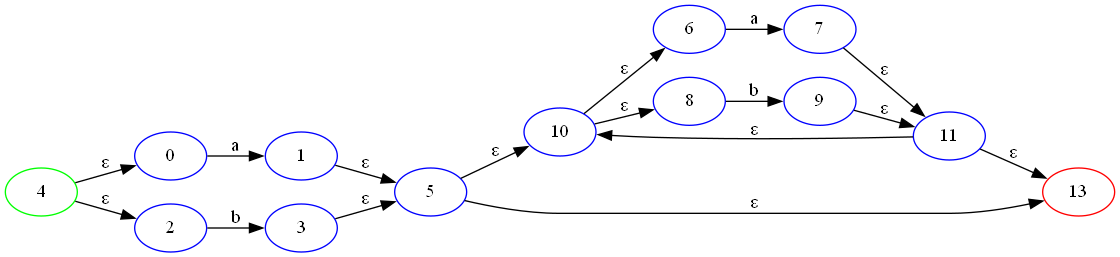
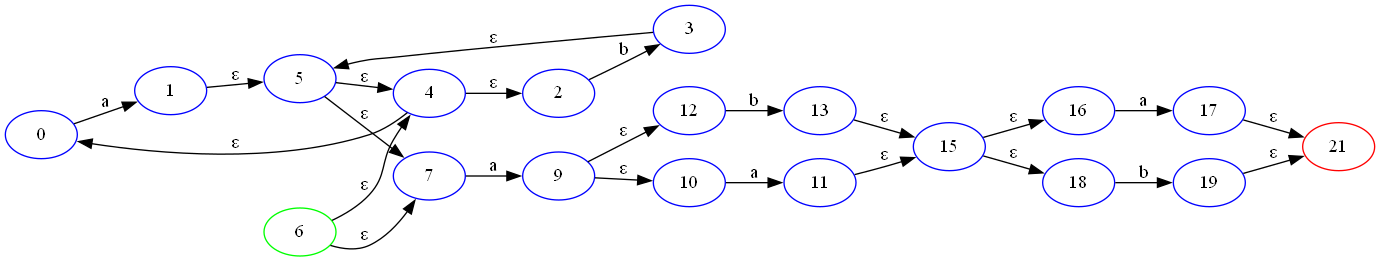
falta pulir un poco más la conversión

diff --git a/AFD_Converter.py b/AFD_Converter.py
@@ -1,6 +1,9 @@
 """
 Archivo que se encargará de convertir el autómata finito no determinista a un autómata finito determinista.
 """
+from EstadoAFD import *
+from TransicionesAFD import *
+import graphviz as gv
 
 class AFD:
 
@@ -9,14 +12,22 @@ class AFD:
         self.automata = automata
         self.transiciones = transiciones
         self.diccionario = diccionario
+        self.estado_num = 0
+        self.trans_AFD = []
+        self.estados_Finales = []
+        self.estados_FinalesE = []
+        self.estados_AFD = []
+        self.estadoInicial = []
+        self.dict = []
 
         self.conversion()
+        self.graficar()
 
     def conversion(self): # Método para convertir el AFD a AFD.
         # Imprimiendo los datos del autómata.
 
-        print(self.automata)
-        print(self.diccionario)
+        #print(self.automata)
+        #print(self.diccionario)
 
         estado_inicial = self.eclosure(self.automata.estado_inicial) # Calculand el estado inicial del autómata.
 
@@ -24,88 +35,123 @@ class AFD:
 
         estdos_AFD = [estado_inicial] # Creando la lista de estados_AFD y guardando su primer estado.
         
-        t_trans = {} # Creando la tabla de transición de los estados.
+        #trans_AFD = [] # Creando la tabla de transición de los estados.
 
         estados_a_revisar = [estado_inicial] # Creando la lista de estados a revisar.
 
-        # print(estados_a_revisar, "Estados a revisar")
-        # print(estdos_AFD, "Estados AFD")
+        #print("Estados a revisar: ", estados_a_revisar)
 
-        while len(estados_a_revisar) > 0: # Mientras la lista de estados a revisar no esté vacía.
-            estado_actual = estados_a_revisar.pop() # Sacando el último elemento de la lista de estados a revisar.
+        while len(estados_a_revisar) > 0:
+            estado_actual_AFD = estados_a_revisar.pop(0) # Sacando el último estado de la lista de estados a revisar.
 
-            #print("Estado actual: ", estado_actual)
+            #print("Estado actual AFD: ", estado_actual_AFD)
+            transiciones_act = {} # Transiciones actuales.
 
             for simbolo in self.alfabeto: # Recorriendo el alfabeto.
-                # Por cada símbolo, se calcula el conjunto de estados alcanzables desde el estado actual.
-                estado_alcanzable = self.eclosure(self.move(estado_actual, simbolo))
 
-                if estado_alcanzable: # Si el conjunto de estados alcanzables no está vacío.
-                    if estado_alcanzable not in estdos_AFD: # Si el conjunto de estados alcanzables no está en la lista de estados_AFD.
-                        estdos_AFD.append(estado_alcanzable) # Se agrega el conjunto de estados alcanzables a la lista de estados_AFD.
-                        estados_a_revisar.append(estado_alcanzable) # Se agrega el conjunto de estados alcanzables a la lista de estados a revisar.
+
+                # Lista para los estados alcanzables.
+                estados_alcanzables = []
+
+                # Recorriendo los estados del estado actual del AFD.
+                for estado in estado_actual_AFD:
+                        
+                        # Verificando si el estado tiene transiciones con el símbolo actual.
+                        if estado in self.diccionario:
+                            
+                            # Si tiene transiciones con el símbolo actual, se agregan a la lista de estados alcanzables.
+                            for transicion in self.diccionario[estado]:
+                                if transicion[0] == simbolo: # Imprimiendo las transiciones con el símbolo actual.
+                                    # Calculando el cierre epsilon de los estados alcanzables.
+                                    estadoo = self.eclosure(transicion[1])
+
+                                    #print("Estadoo: ", estadoo)
+
+                                    # Guardando los estados alcanzables.
+                                    estados_alcanzables.append(estadoo)
+
+                #print("Transiciones actuales: ", transiciones_act)
+                
+                if len(estados_alcanzables) > 0: 
+                    for estad in estados_alcanzables: # Recorriendo los estados alcanzables y guardándolos en los estados del AFD.
+                        if estad not in estdos_AFD:
+                            estdos_AFD.append(estad)
+                            estados_a_revisar.append(estad)
                     
-                    t_trans[(tuple(estado_actual), simbolo)] = tuple(estado_alcanzable) # Creando la tupla para la tabla de transición.
+                    # Guardando las transiciones actuales con el símbolo actual.
+                    transiciones_act[simbolo] = estad
 
-        # Almacenando los estados finales del AFD.
-        estados_finales = []
+            #print("Estado actual: ", estado_actual_AFD, "transiciones: ", transiciones_act)
 
-        # for estado in estdos_AFD: # Recorriendo la lista de estados_AFD.
-        #     for estado_final in self.automata.estado_final: # Recorriendo la lista de estados finales del AFD.
-        #         if estado_final in estado: # Si el estado final está en el conjunto de estados.
-        #             estados_finales.append(estado) # Se agrega el conjunto de estados a la lista de estados finales.
+            #print("Estados AFD: ", estdos_AFD)
 
-        #print("Estados AFD: ", estdos_AFD)
-        print("Transiciones: ", t_trans)
+            # Recorriendo las transiciones actuales.
+            for simboloo, estado_ll in transiciones_act.items():
+                #print("Estado actual: ", estado_actual_AFD, "Simbolo: ", simboloo, "Estado: ", estado_ll)
 
-        # # Detectando los estados finales en el diccionario de transiciones.
-        # for key, value in t_trans.items(): 
-        #     print(key, value)
+                # Creando la transición del AFD.
+                trans = TransicionesAFD(estado_actual_AFD, simboloo, estado_ll)
 
-        #     if self.automata.estado_final in key or self.automata.estado_final in value:
-        #         print("Estado final detectado")
+                self.trans_AFD.append(trans)
 
-        # # for transicion in self.transiciones: 
-        # #     print(str(transicion))
 
-        # # Creando un diccionario para guardar los conjuntos que se generan, a cual conjunto llega con cada símbolo del alfabeto.
-        # conjuntos = {}
-
-        # # Diccionario para guardar los movimientos con cada símbolo del alfabeto.
-        # movimientos = {}
         
-        # # Primer paso: Calcular cerradura epsilon del estado inicial.
-        # # Para esto, se necesita el estado inicial y el diccionario de transiciones.
-        # ecr = self.eclosure(self.automata.estado_inicial) # Resultado de la cerradura epsilon del estado inicial.
+        #print("Transiciones del AFD: ", trans_AFD)
 
-        # # Segundo paso: Calcular los movimientos con cada símbolo del alfabeto.
-        # # Para esto, se necesita el alfabeto, el estado que se regresa de la cerradura epsilon y el diccionario de transiciones.
-        # for simbolo in self.alfabeto: # Recorriendo el alfabeto.
-        #     #print("Símbolo: ", simbolo)
-        #     moves = self.move(ecr, simbolo) # Calculando el conjunto de estados alcanzables desde el conjunto de estados que se regresa de la cerradura epsilon.
-        #     #a = self.eclosure(moves)
-        #     #print("Conjunto: ", a)
+        # Creando un diccionario para guardar los estados con sus etiquetas.
+        diccionario_estados = {}
 
-        #     # Guardando los movimientos en el diccionario.
-        #     movimientos[simbolo] = moves
+        # Recorriendo los estados del AFD.
+        for estado in estdos_AFD:
+            #print("Estado: ", estado)
 
-        # print("Movimientos: ", movimientos)
+            # Dando una etiqueta al estado.
+            etiqueta = "q" + str(self.estado_num)
+            self.estado_num += 1
 
-        # # Tercer paso: Calcular el cierre epsilon de cada conjunto de estados que se obtiene en el paso anterior.
-        # for key, value in movimientos.items(): # Recorriendo el diccionario de movimientos.
-        #     print("Key: ", key)
-        #     # Calculando el cierre epsilon de cada estado del conjunto de estados.
-        #     for estado in value:
-        #         #print("Estado: ", estado)
-        #         ecr1 = self.eclosure(estado)
-        #         #print("Cierre epsilon: ", ecr)
+            # Guardando el estado con su etiqueta.
+            diccionario_estados[etiqueta] = estado
 
-        #         # Guardando el conjunto de estados en el diccionario de la forma {conjunto: {simbolo, conjunto}}.
-        #         conjuntos[ecr1] = {key: ecr}
+        #print("Diccionario de estados: ", diccionario_estados)
+
+        # Cambiando los estados del AFD por sus etiquetas en la tabla de transiciones.
+        for transion in self.trans_AFD:
+            for etiqueta, estado in diccionario_estados.items():
+                if transion.estadoInicial == estado:
+                    transion.estadoInicial = etiqueta
+                
+                if transion.estadoFinal == estado:
+                    transion.estadoFinal = etiqueta
+
+
+        #print("Transiciones: ", self.trans_AFD)
         
-        # print("Conjuntos: ", conjuntos)
-        # #print("Alfabeto: ", self.alfabeto)
+        # Identificando los estados finales del AFD.
+        for estado in estdos_AFD:
+            if self.automata.estado_final in estado:
+                self.estados_Finales.append(estado)
 
+        # Etiqutando los estados finales del AFD.
+        for estadoss in self.estados_Finales:
+            for etiqueta, estadso in diccionario_estados.items():
+                if estadoss == estadso:
+                    self.estados_FinalesE.append(etiqueta)
+
+        # Guardando los estados etiquetados en una lista.
+        for estado in estdos_AFD:
+            for etiqueta, estad in diccionario_estados.items():
+                if estado == estad:
+                    self.estados_AFD.append(etiqueta)
+
+        # Guardando el estado inicial del AFD.
+        for estado in estdos_AFD:
+            if estado == estado_inicial:
+                # Buscando la etiqueta del estado inicial.
+                for etiqueta, estadd in diccionario_estados.items():
+                    if estado == estadd:
+                        self.estado_inicial_AFD = etiqueta
+
+        #return self.trans_AFD
 
     def eclosure(self, estado): #Método para calcular el cierre epsilon de un estado.
         
@@ -145,26 +191,55 @@ class AFD:
         # Retornando el resultado.
         return resultado
     
-    def move(self, conjunto, simbolo): # Método para calcular el conjunto de estados alcanzables desde un conjunto de estados.
-
-        # print("Conjunto: ", conjunto)
-        # print("Símbolo: ", simbolo)
+    def graficar(self): # Método para dibujar el AFD.
         
-        result = 0 # Lista para el resultado.
+        grafo = gv.Digraph(comment="AFD", format="png") # Creando el grafo.
 
-        #pila = [] # Stack para realizar el procedimiento.
+        print("Estados del AFD: ", self.estados_AFD)
+        print("Estados finales del AFD: ", self.estados_FinalesE)
+        
+        # for t in self.trans_AFD:
+        #     print(str(t))
+        
+        # print("Estado inicial AFD: ", self.estado_inicial_AFD)
 
-        # Verificando que movimientos se pueden hacer con el símbolo.
-        for estado in conjunto: # Recorriendo el conjunto de estados.
-            #print("Estado: ", estado)
+        estados = self.estados_AFD # Lista de estados del AFD.
 
-            for esta in self.diccionario[estado]:
-                #print("Transición: ", esta)
+        print(type(estados))
 
-                if esta[0] == simbolo:
-                    #print("Llegué al if")
-                    #print(esta[1])
-                    result = esta[1]
 
-        #print("Resultado: ", result)
-        return result 
+        # Convirtiendo la lista de estados en un diccionario.
+        diccionario_estados = {}
+
+        for i in self.trans_AFD:
+            if i.estadoInicial in diccionario_estados:
+                diccionario_estados[i.estadoInicial].append((i.simbolo, i.estadoFinal))
+            else: 
+                diccionario_estados[i.estadoInicial] = [(i.simbolo, i.estadoFinal)]
+
+        print("Diccionario de estados: ", diccionario_estados)
+
+        # Creando el diccionario de transiciones.
+        for key, value in diccionario_estados.items():
+            
+            print("Estado: ", key, "Transiciones: ", value)
+
+            # Dibujando las transiciones.
+            for simbolo, estado in value:
+                grafo.edge(key, estado, label=simbolo)
+
+        
+        
+
+        # Dibuja los estados del AFD.
+        for estado in estados:
+            if estado in self.estados_FinalesE:
+                grafo.node(estado, estado, shape="doublecircle")
+            else:
+                grafo.node(estado, estado, shape="circle")
+
+        
+        # Colocando el autómta de manera horizontal.
+        grafo.graph_attr['rankdir'] = 'LR'
+
+        grafo.render('grafo2', view=True) # Dibujando el grafo.

diff --git a/main.py b/main.py
@@ -11,6 +11,20 @@ inp = input("Ingrese la expresion regular: ")
 if "?" in inp:
     inp = inp.replace("?", "|ε")
 
+# Recorriendo la expresión regular para hacer la idempotencia de la cerradura de Kleene (o sea si hubiera un a**** cambiarlo a a*)
+if "*" in inp:
+    inp = inp.replace("*****************", "*")
+    inp = inp.replace("****************", "*")
+    inp = inp.replace("***************", "*")
+    inp = inp.replace("**************", "*")
+    inp = inp.replace("************", "*")
+    inp = inp.replace("**********", "*")
+    inp = inp.replace("********", "*")
+    inp = inp.replace("******", "*")
+    inp = inp.replace("*****", "*")
+    inp = inp.replace("****", "*")
+    inp = inp.replace("***", "*")
+    inp = inp.replace("**", "*")
 
 verificacion = deteccion(inp) # Verificando que la expresión regular sea correcta.
 
